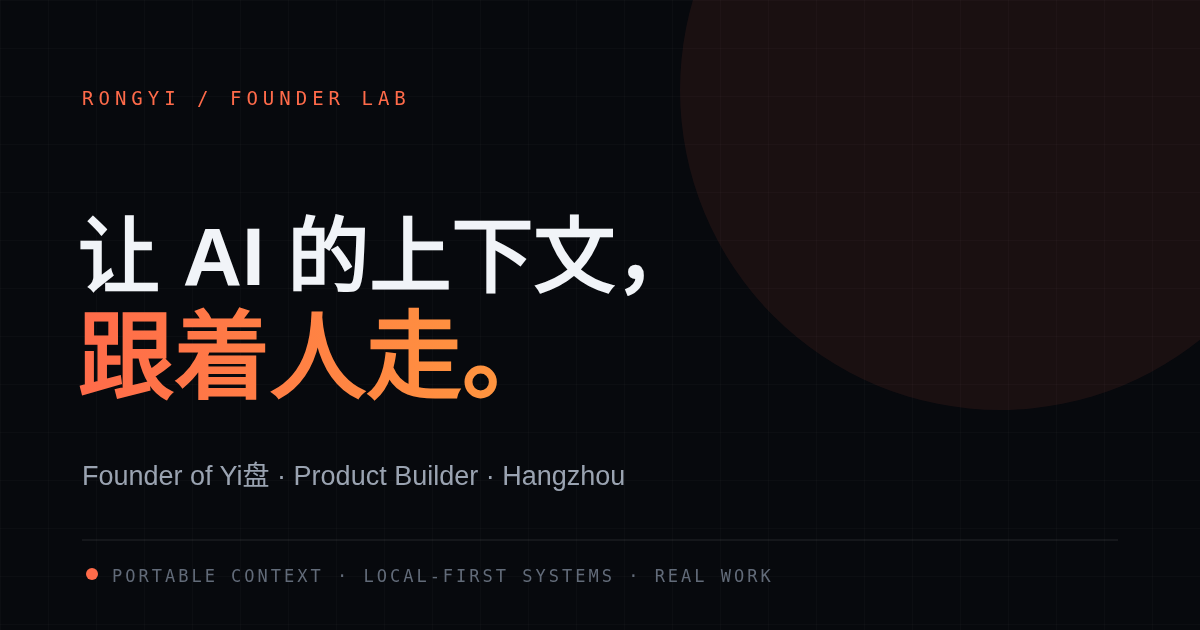
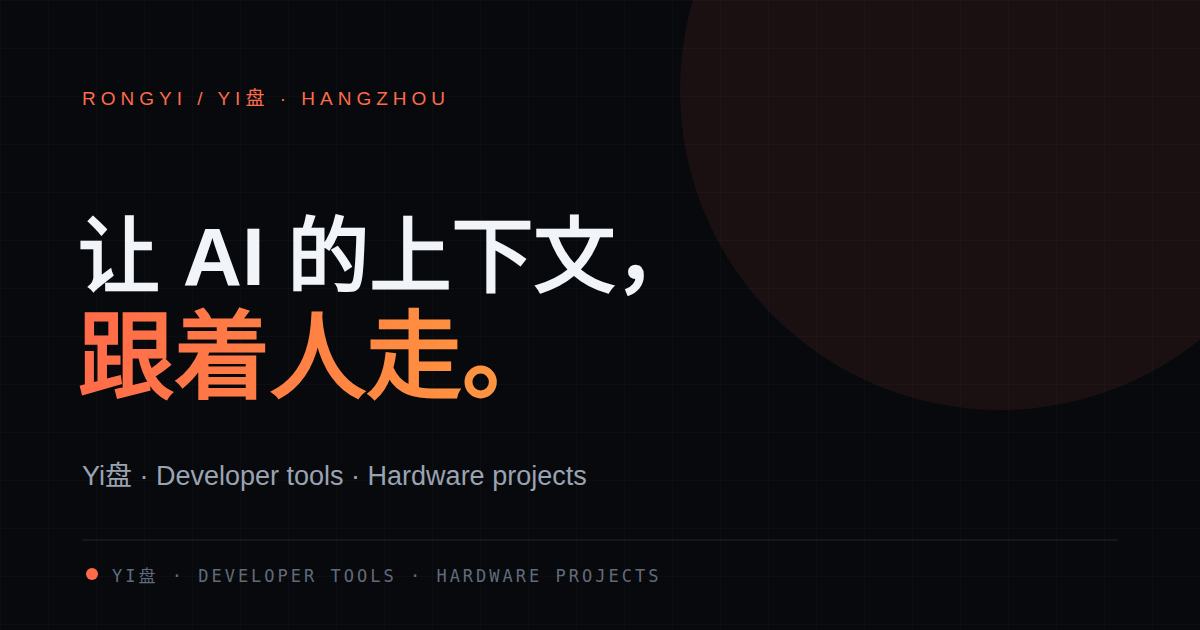
refactor: make homepage copy more direct

diff --git a/src/styles/global.css b/src/styles/global.css
@@ -14,22 +14,22 @@ body::before{content:"";position:fixed;inset:0;z-index:-3;pointer-events:none;ba
 .site-header{position:fixed;z-index:100;top:18px;left:50%;transform:translateX(-50%);width:min(calc(100% - 40px),var(--max));min-height:56px;display:grid;grid-template-columns:1fr auto 1fr;align-items:center;padding:8px 10px 8px 12px;border:1px solid transparent;border-radius:14px;transition:background .25s,border-color .25s,backdrop-filter .25s,top .25s}.site-header.is-scrolled{top:10px;background:rgba(7,9,13,.78);border-color:var(--line);backdrop-filter:blur(18px)}.mobile-nav{display:none}
 .wordmark{display:inline-flex;align-items:center;gap:10px;width:max-content;text-decoration:none}.wordmark>span{display:grid;place-items:center;width:34px;height:34px;border:1px solid rgba(255,107,74,.45);border-radius:9px;color:var(--accent);font-size:18px;font-weight:850}.wordmark b{font-size:13px;letter-spacing:.15em}.wordmark small{color:var(--dim);font-size:10px;letter-spacing:.12em}nav{display:flex;align-items:center;gap:6px}nav a,.header-link{padding:9px 13px;border-radius:9px;color:var(--muted);font-size:12px;font-weight:650;letter-spacing:.08em;text-decoration:none;transition:color .2s,background .2s}nav a:hover,nav a:focus-visible,.header-link:hover,.header-link:focus-visible{color:var(--text);background:rgba(255,255,255,.06);outline:none}.header-link{justify-self:end;color:var(--text)}.header-link span{color:var(--accent)}
 .hero{position:relative;width:min(calc(100% - 48px),var(--max));min-height:100dvh;margin:0 auto;padding:150px 0 92px;display:grid;grid-template-columns:minmax(0,.88fr) minmax(480px,1.12fr);align-items:center;gap:clamp(40px,6vw,100px)}.hero-copy{position:relative;z-index:2}.eyebrow{margin:0 0 22px;color:var(--muted);font-size:11px;font-weight:650;letter-spacing:.17em;line-height:1.5}.pulse{display:inline-block;width:7px;height:7px;margin-right:8px;border-radius:50%;background:var(--accent);box-shadow:0 0 0 5px rgba(255,107,74,.1),0 0 18px var(--accent);animation:pulse 2.2s ease-in-out infinite}
-.hero h1{margin:0;width:max-content;max-width:100%;font-size:clamp(46px,4.65vw,67px);font-weight:720;letter-spacing:-.045em;line-height:1.02}.headline-line{display:block;white-space:nowrap}.hero h1 .is-accent{color:var(--accent)}.hero h1 em,.closing h2 em{display:inline-block;padding:0 .08em .07em 0;color:var(--accent);font-style:normal}.hero-en{margin:22px 0 0;color:var(--dim);font-size:clamp(15px,1.5vw,20px);letter-spacing:-.015em}.hero-intro{max-width:570px;margin:28px 0 0;color:#bdc4ce;font-size:16px;line-height:1.8}.hero-actions{display:flex;flex-wrap:wrap;gap:12px;margin-top:34px}
+.hero h1{margin:0;width:max-content;max-width:100%;font-size:clamp(46px,4.65vw,67px);font-weight:720;letter-spacing:-.045em;line-height:1.02}.headline-line{display:block;white-space:nowrap}.hero h1 .is-accent{color:var(--accent)}.hero h1 em,.closing h2 em{display:inline-block;padding:0 .08em .07em 0;color:var(--accent);font-style:normal}.hero-intro{max-width:600px;margin:28px 0 0;color:#bdc4ce;font-size:16px;line-height:1.8}.hero-actions{display:flex;flex-wrap:wrap;gap:12px;margin-top:34px}
 .button{min-height:48px;display:inline-flex;align-items:center;justify-content:center;gap:18px;padding:0 22px;border:1px solid var(--line-strong);border-radius:12px;font-size:14px;font-weight:680;text-decoration:none;white-space:nowrap;transition:transform .18s,background .18s,border-color .18s,box-shadow .18s}.button:active{transform:translateY(1px) scale(.985)}.button.primary{border-color:rgba(255,154,61,.5);color:#17100d;background:linear-gradient(100deg,var(--accent),var(--accent-2));box-shadow:0 16px 40px rgba(255,107,74,.16)}.button.primary:hover,.button.primary:focus-visible{transform:translateY(-2px);box-shadow:0 20px 50px rgba(255,107,74,.25)}.button.secondary{color:#dfe4eb;background:rgba(255,255,255,.035)}.button.secondary:hover,.button.secondary:focus-visible{border-color:rgba(255,255,255,.3);background:rgba(255,255,255,.07)}.button span{font-size:16px}
 .context-machine{position:relative;min-height:470px;margin:0;border:1px solid var(--line-strong);border-radius:var(--radius);background:linear-gradient(145deg,rgba(17,21,29,.9),rgba(7,9,13,.7));box-shadow:0 45px 100px rgba(0,0,0,.35),inset 0 1px rgba(255,255,255,.04);overflow:hidden}.context-machine::before{content:"";position:absolute;inset:0;pointer-events:none;background:linear-gradient(rgba(255,255,255,.026) 1px,transparent 1px),linear-gradient(90deg,rgba(255,255,255,.026) 1px,transparent 1px);background-size:28px 28px;mask-image:linear-gradient(to bottom,#000,transparent 85%)}.context-machine::after{content:"";position:absolute;inset:-40%;background:conic-gradient(from 200deg,transparent 0 30%,rgba(255,107,74,.07),transparent 42%);animation:scan 10s linear infinite}
 .machine-topline,.machine-footer{position:relative;z-index:3;min-height:44px;display:flex;align-items:center;justify-content:space-between;padding:0 18px;border-bottom:1px solid var(--line);color:var(--dim);font-size:9px;font-weight:650;letter-spacing:.16em}.online{color:#c3cad4}.online i{display:inline-block;width:6px;height:6px;margin-right:7px;border-radius:50%;background:var(--accent);box-shadow:0 0 12px var(--accent)}.machine-footer{position:absolute;inset:auto 0 0;border-top:1px solid var(--line);border-bottom:0}.machine-grid{position:relative;z-index:2;min-height:380px;display:grid;grid-template-columns:1fr 74px 1.1fr 74px 1fr;align-items:center;padding:30px 22px 65px}.source-stack,.agent-stack{display:grid;gap:10px}.source,.agent-stack>div{min-height:62px;padding:12px;border:1px solid var(--line);border-radius:10px;background:rgba(6,8,12,.7)}.source span{float:right;color:var(--dim);font-family:ui-monospace,monospace;font-size:9px}.source b,.agent-stack b{display:block;color:#dbe1e9;font-size:10px;letter-spacing:.08em}.source small,.agent-stack small{display:block;margin-top:8px;color:var(--dim);font-size:9px}.agent-stack>div{min-height:54px;position:relative;padding-left:30px}.agent-stack i{position:absolute;top:15px;left:12px;width:7px;height:7px;border:1px solid rgba(70,216,156,.65);border-radius:50%;background:rgba(70,216,156,.18);box-shadow:0 0 10px rgba(70,216,156,.3)}.agent-stack small{color:#6ca98f}
 .route{position:relative;height:1px;background:linear-gradient(90deg,rgba(255,107,74,.15),var(--accent),rgba(255,107,74,.15))}.route::before,.route::after{content:"";position:absolute;top:-3px;width:7px;height:7px;border-top:1px solid var(--accent);border-right:1px solid var(--accent);transform:rotate(45deg)}.route::before{left:38%}.route::after{right:5%}.packet{position:absolute;top:-3px;left:0;width:7px;height:7px;border-radius:50%;background:#fff;box-shadow:0 0 14px 3px var(--accent);animation:packet 2.8s linear infinite}.packet-b{animation-delay:-1.4s}.packet-c{animation-duration:2s;animation-delay:-.5s}
 .yipan-core{position:relative;aspect-ratio:1;width:min(100%,170px);margin:auto;display:grid;place-content:center;text-align:center;border:1px solid rgba(255,107,74,.2);border-radius:50%;background:radial-gradient(circle,rgba(255,107,74,.16),rgba(255,107,74,.03) 48%,transparent 49%);box-shadow:0 0 70px rgba(255,107,74,.11)}.core-orbit{position:absolute;inset:10%;border:1px dashed rgba(255,154,61,.33);border-radius:50%;animation:spin 13s linear infinite}.core-orbit::after{content:"";position:absolute;top:13%;left:5%;width:7px;height:7px;border-radius:50%;background:var(--accent-2);box-shadow:0 0 14px var(--accent-2)}.orbit-b{inset:-3%;border-color:rgba(255,255,255,.1);animation-direction:reverse;animation-duration:19s}.orbit-b::after{top:auto;left:auto;right:5%;bottom:20%;width:5px;height:5px;background:#fff;box-shadow:0 0 12px #fff}.core-mark{display:flex;align-items:baseline;justify-content:center;gap:.06em;font-size:30px;font-weight:780;letter-spacing:0}.core-mark .brand-latin{letter-spacing:-.035em}.core-mark .brand-cjk{color:var(--accent);font-family:"PingFang SC","Microsoft YaHei",system-ui,sans-serif;font-size:.92em;letter-spacing:0}.yipan-core small{margin-top:7px;color:var(--dim);font-size:7px;letter-spacing:.15em;line-height:1.5}.scroll-note{position:absolute;left:0;bottom:27px;display:flex;align-items:center;gap:10px;color:var(--dim);font-size:9px;letter-spacing:.17em}.scroll-note span{position:relative;width:32px;height:1px;background:var(--line-strong);overflow:hidden}.scroll-note span::after{content:"";position:absolute;width:12px;height:1px;background:var(--accent);animation:scrollLine 2s ease-in-out infinite}
-.section-shell{width:min(calc(100% - 48px),var(--max));margin:0 auto}.section-index{color:var(--accent);font-family:ui-monospace,"SFMono-Regular",monospace;font-size:10px;letter-spacing:.14em}.statement-line{display:block;white-space:nowrap}.manifesto{position:relative;min-height:620px;padding:130px 0;display:grid;grid-template-columns:.5fr 1.45fr .75fr;gap:60px;align-items:start;border-top:1px solid var(--line)}.manifesto h2,.section-heading h2,.proof h2,.closing h2{margin:0;font-size:clamp(38px,5vw,70px);font-weight:650;letter-spacing:-.055em;line-height:1.08}.manifesto h2 .statement-line:last-child>span,.proof h2 .is-accent{color:var(--accent)}.manifesto>p{margin:39px 0 0;color:var(--muted);font-size:15px;line-height:1.85}.skill-strip{position:absolute;inset:auto 0 70px;display:grid;grid-template-columns:repeat(4,1fr);border-top:1px solid var(--line);border-bottom:1px solid var(--line)}.skill-strip span{padding:18px 12px;border-right:1px solid var(--line);color:var(--dim);font-size:10px;letter-spacing:.12em;text-align:center}.skill-strip span:last-child{border:0}
-.work,.principles,.build-log{padding:110px 0;border-top:1px solid var(--line)}.section-heading{display:grid;grid-template-columns:1fr minmax(260px,430px);gap:60px;align-items:end;margin-bottom:60px}.section-heading .section-index{margin-bottom:18px}.section-heading h2{font-size:clamp(40px,4.5vw,64px)}.section-heading>p{margin:0;color:var(--muted);font-size:14px;line-height:1.8}
+.section-shell{width:min(calc(100% - 48px),var(--max));margin:0 auto}.section-index{color:var(--accent);font-family:ui-monospace,"SFMono-Regular",monospace;font-size:10px;letter-spacing:.14em}.statement-line{display:block;white-space:nowrap}.section-heading h2,.proof h2,.closing h2{margin:0;font-size:clamp(38px,5vw,70px);font-weight:650;letter-spacing:-.055em;line-height:1.08}.proof h2 .is-accent{color:var(--accent)}
+.work,.build-log{padding:110px 0;border-top:1px solid var(--line)}.section-heading{display:grid;grid-template-columns:1fr minmax(260px,430px);gap:60px;align-items:end;margin-bottom:60px}.section-heading .section-index{margin-bottom:18px}.section-heading h2{font-size:clamp(40px,4.5vw,64px)}.section-heading>p{margin:0;color:var(--muted);font-size:14px;line-height:1.8}
 .project-featured{display:grid;grid-template-columns:.9fr 1.1fr;gap:40px;min-height:540px;padding:clamp(28px,4vw,58px);border:1px solid rgba(255,107,74,.26);border-radius:var(--radius);background:linear-gradient(125deg,rgba(255,107,74,.085),rgba(255,255,255,.018) 48%,rgba(255,154,61,.04));box-shadow:inset 0 1px rgba(255,255,255,.04)}.project-main{align-self:center}.project-main h3{margin:0;font-size:clamp(64px,8vw,110px);font-weight:760;letter-spacing:0;line-height:1}.project-title{display:flex;align-items:baseline;gap:.08em;width:max-content}.project-title-latin{letter-spacing:-.045em}.project-title-cjk{color:var(--accent);font-family:"PingFang SC","Microsoft YaHei",system-ui,sans-serif;font-size:.92em;font-weight:730;letter-spacing:0}.project-summary{max-width:590px;margin:22px 0;color:#c3cad4;font-size:16px;line-height:1.8}.tags{display:flex;flex-wrap:wrap;gap:7px}.tags span{padding:6px 9px;border:1px solid var(--line);border-radius:8px;color:var(--muted);background:rgba(255,255,255,.025);font-size:10px;letter-spacing:.04em}.project-links{display:flex;flex-wrap:wrap;align-items:center;gap:15px;margin-top:30px}.status,.live-signal{display:inline-flex;align-items:center;gap:8px;color:var(--muted);font-size:11px;text-decoration:none}.status i,.live-signal i{width:6px;height:6px;border-radius:50%;background:var(--dim)}.status.active i{background:var(--accent);box-shadow:0 0 10px var(--accent)}.caveat{display:block;margin:18px 0 0;color:var(--dim);font-size:12px;line-height:1.65}
 .yipan-blueprint{align-self:center;min-height:410px;margin:0;position:relative;display:grid;place-content:center;padding:50px 24px;border:1px dashed rgba(255,255,255,.15);border-radius:12px;background:linear-gradient(rgba(255,255,255,.018) 1px,transparent 1px),linear-gradient(90deg,rgba(255,255,255,.018) 1px,transparent 1px),rgba(4,6,9,.48);background-size:22px 22px}.blueprint-label{position:absolute;top:15px;left:16px;color:var(--dim);font-family:ui-monospace,monospace;font-size:9px;letter-spacing:.1em}.drive-body{width:min(390px,90%);height:142px;margin:auto;display:grid;grid-template-columns:70px 1fr;filter:drop-shadow(0 30px 30px rgba(0,0,0,.4));transform:perspective(700px) rotateX(8deg) rotateY(-7deg)}.drive-port{display:flex;align-items:center;justify-content:center;gap:5px;border:1px solid rgba(255,154,61,.35);border-right:0;border-radius:11px 0 0 11px;background:#161a21}.drive-port i{width:7px;height:54px;border:1px solid #4e5663;background:#232934}.drive-face{position:relative;padding:30px 34px;border:1px solid rgba(255,154,61,.4);border-radius:0 13px 13px 0;background:linear-gradient(145deg,#20252d,#0d1117);overflow:hidden}.drive-face::after{content:"";position:absolute;inset:0;background:linear-gradient(115deg,transparent 40%,rgba(255,255,255,.07) 50%,transparent 60%);transform:translateX(-100%);animation:shine 4s ease-in-out infinite}.drive-face b{display:block;font-size:35px;letter-spacing:0}.drive-brand{display:flex!important;align-items:baseline;gap:.08em;width:max-content}.drive-brand .brand-latin{letter-spacing:-.035em}.drive-brand .brand-cjk{color:var(--accent);font-family:"PingFang SC","Microsoft YaHei",system-ui,sans-serif;font-size:.92em;letter-spacing:0}.drive-face small{color:var(--dim);font-size:7px;letter-spacing:.16em}.drive-lines{position:absolute;right:20px;bottom:20px;display:flex;gap:5px}.drive-lines i{width:24px;height:3px;background:var(--accent);opacity:.25}.drive-lines i:nth-child(2){opacity:.55}.drive-lines i:nth-child(3){opacity:1;box-shadow:0 0 10px var(--accent)}.capability-row{display:grid;grid-template-columns:repeat(4,1fr);margin-top:42px;border:1px solid var(--line);border-radius:9px;overflow:hidden}.capability-row span{padding:10px;border-right:1px solid var(--line);color:var(--dim);font-size:8px;text-align:center;letter-spacing:.12em}.capability-row span:last-child{border:0}.proof-note{position:absolute;right:14px;bottom:14px;color:var(--dim);font-size:9px;letter-spacing:.08em}.proof-note i{display:inline-block;width:5px;height:5px;margin-right:5px;border-radius:50%;background:var(--accent)}
 .project-row{position:relative;min-height:240px;display:grid;grid-template-columns:80px 1.25fr .75fr 42px;gap:30px;align-items:center;padding:34px 20px 34px 0;border-bottom:1px solid var(--line);transition:background .25s,padding .25s}.project-row:hover{padding-left:18px;background:linear-gradient(90deg,rgba(255,107,74,.055),transparent 70%)}.project-row:hover .project-arrow{color:var(--accent);transform:translate(2px,-2px)}.project-number{align-self:start;padding-top:6px;color:var(--accent);font-family:ui-monospace,monospace;font-size:11px}.project-copy .eyebrow{margin-bottom:12px}.project-copy h3{margin:0;font-size:clamp(28px,3vw,42px);letter-spacing:-.045em}.project-copy>p{max-width:670px;margin:15px 0 0;color:var(--muted);font-size:14px;line-height:1.75}.project-meta{display:grid;gap:20px;justify-items:start}.live-signal{color:#aab3bf}.live-signal.pass i,.live-signal.release i{background:var(--ok);box-shadow:0 0 9px rgba(70,216,156,.5)}.live-signal.release i{background:var(--accent);box-shadow:0 0 9px rgba(255,107,74,.6)}.live-signal.failure{color:#ffaaaa}.live-signal.failure i{background:var(--danger);box-shadow:0 0 9px rgba(255,116,116,.45)}.live-signal.stale i{background:var(--accent-2)}.project-arrow{display:inline-flex;align-items:center;justify-content:center;gap:7px;min-width:44px;min-height:44px;padding:0 10px;border:1px solid var(--line);border-radius:10px;color:var(--muted);text-decoration:none;transition:color .2s,transform .2s,border-color .2s}.project-arrow:focus-visible{color:var(--accent);border-color:var(--accent)}.project-arrow-label{font-size:11px}.data-note{margin:24px 0 0;color:var(--dim);font-size:11px;line-height:1.6;letter-spacing:.04em}
-.principle-list{border-top:1px solid var(--line)}.principle{display:grid;grid-template-columns:70px 1fr minmax(280px,.8fr);gap:30px;align-items:center;min-height:130px;border-bottom:1px solid var(--line)}.principle>span{color:var(--accent);font-family:ui-monospace,monospace;font-size:11px}.principle h3{margin:0;font-size:clamp(20px,2.2vw,30px);font-weight:570;letter-spacing:-.025em}.principle p{margin:0;color:var(--muted);font-size:13px;line-height:1.7}.proof{min-height:650px;padding:120px 0;display:grid;grid-template-columns:.85fr 1.15fr;gap:clamp(60px,9vw,140px);align-items:center;border-top:1px solid var(--line)}.proof h2{margin-top:22px;width:max-content;max-width:100%;font-size:clamp(38px,3.45vw,50px);line-height:1.1;letter-spacing:-.04em}.proof-copy>p:not(.section-index){max-width:480px;margin:26px 0;color:var(--muted);line-height:1.8}.text-link{min-height:44px;display:inline-flex;align-items:center;padding-bottom:5px;border-bottom:1px solid var(--accent);color:#e7ebf1;font-size:13px;text-decoration:none}.signal-panel{border:1px solid var(--line-strong);border-radius:var(--radius);background:rgba(11,14,20,.75);overflow:hidden;box-shadow:0 30px 90px rgba(0,0,0,.28)}.signal-header{min-height:47px;display:flex;align-items:center;justify-content:space-between;padding:0 17px;border-bottom:1px solid var(--line);color:var(--dim);font-size:9px;letter-spacing:.12em}.signal-header small{font-size:10px}.signal-panel>a{min-height:70px;display:grid;grid-template-columns:12px 1fr auto 20px;gap:12px;align-items:center;padding:0 17px;border-bottom:1px solid var(--line);text-decoration:none;transition:background .2s}.signal-panel>a:last-child{border:0}.signal-panel>a:hover{background:rgba(255,255,255,.035)}.signal-panel>a i{width:7px;height:7px;border:1px solid var(--accent);border-radius:50%}.signal-panel>a i.ok{border:0;background:var(--ok);box-shadow:0 0 10px rgba(70,216,156,.45)}.signal-panel>a i.failure{border:0;background:var(--danger);box-shadow:0 0 10px rgba(255,116,116,.4)}.signal-panel>a.failure span{color:#ffaaaa}.signal-panel>a.stale i{border-color:var(--accent-2)}.signal-panel b{font-size:13px;font-weight:620}.signal-panel a span{color:var(--muted);font-size:11px}.signal-panel em{color:var(--dim);font-style:normal}
-.log-grid{display:grid;grid-template-columns:repeat(2,1fr);border-top:1px solid var(--line);border-left:1px solid var(--line)}.log-entry{min-height:270px;display:flex;flex-direction:column;padding:30px;border-right:1px solid var(--line);border-bottom:1px solid var(--line);text-decoration:none;transition:background .25s}.log-entry:hover{background:linear-gradient(145deg,rgba(255,107,74,.07),rgba(255,255,255,.015))}.log-entry>div{display:flex;justify-content:space-between;color:var(--dim);font-size:10px;letter-spacing:.1em}.log-entry>div span{color:var(--accent)}.log-entry h3{margin:42px 0 12px;font-size:25px;letter-spacing:-.035em}.log-entry p{max-width:470px;margin:0;color:var(--muted);font-size:13px;line-height:1.7}.log-entry>i{margin-top:auto;color:var(--dim);font-size:10px;font-style:normal;letter-spacing:.12em}.closing{min-height:720px;display:grid;place-content:center;justify-items:center;padding:120px 20px;border-top:1px solid var(--line);text-align:center}.closing .eyebrow{color:var(--accent)}.closing h2{font-size:clamp(48px,7vw,94px)}.closing>p:not(.eyebrow){margin:30px 0;color:var(--muted)}.closing .button{margin-top:8px}footer{width:min(calc(100% - 48px),var(--max));min-height:130px;margin:0 auto;display:grid;grid-template-columns:1fr auto 1fr;gap:30px;align-items:center;border-top:1px solid var(--line);color:var(--dim);font-size:10px}footer div{display:flex;flex-direction:column;gap:7px}footer b{color:var(--text);font-size:13px;letter-spacing:.12em}footer p{text-align:center}footer>span{justify-self:end}
+.proof{min-height:650px;padding:120px 0;display:grid;grid-template-columns:.85fr 1.15fr;gap:clamp(60px,9vw,140px);align-items:center;border-top:1px solid var(--line)}.proof h2{margin-top:22px;width:max-content;max-width:100%;font-size:clamp(38px,3.45vw,50px);line-height:1.1;letter-spacing:-.04em}.proof-copy>p:not(.section-index){max-width:480px;margin:26px 0;color:var(--muted);line-height:1.8}.text-link{min-height:44px;display:inline-flex;align-items:center;padding-bottom:5px;border-bottom:1px solid var(--accent);color:#e7ebf1;font-size:13px;text-decoration:none}.signal-panel{border:1px solid var(--line-strong);border-radius:var(--radius);background:rgba(11,14,20,.75);overflow:hidden;box-shadow:0 30px 90px rgba(0,0,0,.28)}.signal-header{min-height:47px;display:flex;align-items:center;justify-content:space-between;padding:0 17px;border-bottom:1px solid var(--line);color:var(--dim);font-size:9px;letter-spacing:.12em}.signal-header small{font-size:10px}.signal-panel>a{min-height:70px;display:grid;grid-template-columns:12px 1fr auto 20px;gap:12px;align-items:center;padding:0 17px;border-bottom:1px solid var(--line);text-decoration:none;transition:background .2s}.signal-panel>a:last-child{border:0}.signal-panel>a:hover{background:rgba(255,255,255,.035)}.signal-panel>a i{width:7px;height:7px;border:1px solid var(--accent);border-radius:50%}.signal-panel>a i.ok{border:0;background:var(--ok);box-shadow:0 0 10px rgba(70,216,156,.45)}.signal-panel>a i.failure{border:0;background:var(--danger);box-shadow:0 0 10px rgba(255,116,116,.4)}.signal-panel>a.failure span{color:#ffaaaa}.signal-panel>a.stale i{border-color:var(--accent-2)}.signal-panel b{font-size:13px;font-weight:620}.signal-panel a span{color:var(--muted);font-size:11px}.signal-panel em{color:var(--dim);font-style:normal}
+.log-grid{display:grid;grid-template-columns:repeat(2,1fr);border-top:1px solid var(--line);border-left:1px solid var(--line)}.log-entry{min-height:270px;display:flex;flex-direction:column;padding:30px;border-right:1px solid var(--line);border-bottom:1px solid var(--line);text-decoration:none;transition:background .25s}.log-entry:hover{background:linear-gradient(145deg,rgba(255,107,74,.07),rgba(255,255,255,.015))}.log-entry>div{display:flex;justify-content:space-between;color:var(--dim);font-size:10px;letter-spacing:.1em}.log-entry>div span{color:var(--accent)}.log-entry h3{margin:42px 0 12px;font-size:25px;letter-spacing:-.035em}.log-entry p{max-width:470px;margin:0;color:var(--muted);font-size:13px;line-height:1.7}.log-entry>i{margin-top:auto;color:var(--dim);font-size:10px;font-style:normal;letter-spacing:.12em}.closing{min-height:580px;display:grid;place-content:center;justify-items:center;padding:100px 20px;border-top:1px solid var(--line);text-align:center}.closing .eyebrow{color:var(--accent)}.closing h2{font-size:clamp(48px,7vw,94px)}.closing>p:not(.eyebrow){margin:30px 0;color:var(--muted)}.closing .button{margin-top:8px}footer{width:min(calc(100% - 48px),var(--max));min-height:130px;margin:0 auto;display:grid;grid-template-columns:1fr auto 1fr;gap:30px;align-items:center;border-top:1px solid var(--line);color:var(--dim);font-size:10px}footer div{display:flex;flex-direction:column;gap:7px}footer b{color:var(--text);font-size:13px;letter-spacing:.12em}footer p{text-align:center}footer>span{justify-self:end}
 .reveal{opacity:1;transform:none}.reveal.enter{animation:revealIn .75s cubic-bezier(.2,.8,.2,1) both}
 @keyframes revealIn{from{opacity:0;transform:translateY(18px)}to{opacity:1;transform:none}}@keyframes pulse{50%{opacity:.55;box-shadow:0 0 0 8px rgba(255,107,74,.03),0 0 8px var(--accent)}}@keyframes scan{to{transform:rotate(360deg)}}@keyframes packet{from{left:0}to{left:calc(100% - 7px)}}@keyframes spin{to{transform:rotate(360deg)}}@keyframes scrollLine{0%{transform:translateX(-100%)}100%{transform:translateX(270%)}}@keyframes shine{0%,35%{transform:translateX(-100%)}65%,100%{transform:translateX(100%)}}
-@media(max-width:1200px){.hero{grid-template-columns:1fr;min-height:auto;padding:130px 0 92px;align-content:center}.hero-copy{max-width:800px}.hero h1{font-size:clamp(52px,6.7vw,67px)}.context-machine{min-height:430px}.scroll-note{display:none}.manifesto{grid-template-columns:.35fr 1.3fr .65fr;gap:32px}.project-featured{grid-template-columns:1fr}.project-main{order:1}.yipan-blueprint{min-height:360px}.project-row{grid-template-columns:55px 1fr .65fr auto;gap:20px}.proof{grid-template-columns:1fr;gap:55px}.signal-panel{max-width:720px}}
-@media(max-width:820px){.section-heading{grid-template-columns:1fr;gap:24px;margin-bottom:42px}.manifesto{grid-template-columns:minmax(0,1fr);min-height:680px;padding:95px 0;gap:25px}.manifesto>p{margin:0}.manifesto h2{font-size:clamp(36px,6.2vw,48px)}.skill-strip{bottom:40px}.principle{grid-template-columns:55px 1fr;gap:20px;padding:26px 0}.principle p{grid-column:2}.proof{min-height:auto;padding:95px 0}.project-row{grid-template-columns:44px 1fr auto}.project-copy,.project-meta{grid-column:2}.project-arrow{grid-column:3;grid-row:1/span 2}.project-number{grid-row:1/span 2}}
-@media(max-width:760px){.ambient{overflow:hidden}main section[id]{scroll-margin-top:126px}.site-header{top:10px;width:calc(100% - 24px);grid-template-columns:1fr auto;background:rgba(7,9,13,.88);border-color:var(--line);backdrop-filter:blur(16px)}.site-header .wordmark{min-height:44px}.wordmark small,.site-header nav{display:none}.header-link{min-height:44px;display:inline-flex;align-items:center;padding-right:7px}.mobile-nav{position:fixed;z-index:99;top:76px;left:50%;transform:translateX(-50%);width:max-content;max-width:calc(100% - 32px);min-height:50px;display:flex;gap:2px;padding:3px;border:1px solid var(--line);border-radius:11px;background:rgba(7,9,13,.88);backdrop-filter:blur(16px)}.mobile-nav a{min-width:58px;min-height:44px;display:grid;place-items:center;padding:0 12px;border-radius:8px;color:var(--muted);font-size:12px;text-decoration:none}.hero,.section-shell,footer{width:calc(100% - 32px)}.hero{min-height:auto;padding:136px 0 72px;gap:42px}.hero h1{font-size:clamp(38px,10.6vw,44px);line-height:1.04;letter-spacing:-.035em}.hero-en{margin-top:17px}.hero-intro{margin-top:23px;font-size:15px;line-height:1.7}.hero-actions{display:grid;grid-template-columns:1fr 1fr;margin-top:28px}.button{min-width:0;gap:10px;padding:0 14px}.context-machine{min-height:330px}.machine-topline,.machine-footer{min-height:40px;font-size:8px;padding-inline:14px}.machine-grid{min-height:250px;grid-template-columns:1fr 26px 1fr;grid-template-rows:auto 38px auto;padding:18px 12px 48px}.source-stack,.agent-stack{gap:6px}.source,.agent-stack>div{min-height:42px;padding:8px}.source small,.agent-stack small{margin-top:4px}.agent-stack>div{padding-left:25px}.agent-stack i{top:11px;left:9px}.source-stack{grid-column:1;grid-row:1/span 3}.route-left{grid-column:2;grid-row:2}.yipan-core{grid-column:3;grid-row:1;width:86px}.core-mark{font-size:23px}.route-right{grid-column:3;grid-row:2;width:1px;height:32px;justify-self:center;background:linear-gradient(var(--accent),rgba(255,107,74,.15))}.route-right::before,.route-right::after,.route-left::before,.route-left::after,.route .packet{display:none}.agent-stack{grid-column:3;grid-row:3}.machine-footer span:nth-child(2){display:none}.context-machine::after,.orbit-b{animation:none}.manifesto{min-height:650px}.manifesto h2{font-size:clamp(25px,7.7vw,30px)}.skill-strip{grid-template-columns:1fr 1fr}.skill-strip span:nth-child(2){border-right:0}.skill-strip span:nth-child(-n+2){border-bottom:1px solid var(--line)}.work,.principles,.build-log{padding:85px 0}.section-heading h2{font-size:clamp(38px,11vw,44px)}.project-featured{min-height:auto;padding:27px 20px}.project-main h3{font-size:70px}.proof h2{font-size:clamp(29px,8.15vw,35px);letter-spacing:-.035em}.yipan-blueprint{min-height:320px;padding-inline:12px}.drive-body{width:92%;height:110px;grid-template-columns:52px 1fr}.drive-face{padding:23px 20px}.drive-face::after{animation:none}.drive-face b{font-size:27px}.capability-row{margin-top:30px}.proof-note{max-width:78%;text-align:right}.project-row{padding:30px 0}.project-row:hover{padding-left:0}.project-meta{gap:12px}.live-signal{min-height:44px}.data-note a{min-height:44px;display:inline-flex;align-items:center}.project-arrow-label{display:none}.principle{grid-template-columns:35px 1fr;gap:15px;padding:24px 0}.principle p{grid-column:2}.signal-header small{display:none}.signal-panel>a{grid-template-columns:10px 1fr 18px;padding-block:12px}.signal-panel>a span{grid-column:2;padding-bottom:15px}.signal-panel>a em{grid-column:3;grid-row:1/span 2}.log-grid{grid-template-columns:1fr}.log-entry{min-height:245px}.closing{min-height:600px;padding-inline:0}.closing h2{font-size:clamp(28px,9.2vw,40px)}.closing>p:not(.eyebrow){max-width:30ch;line-height:1.7}footer{min-height:190px;padding:30px 0;grid-template-columns:1fr;gap:12px;text-align:center;font-size:11px}footer div{align-items:center}footer p{margin:0}footer>span{justify-self:center}}
+@media(max-width:1200px){.hero{grid-template-columns:1fr;min-height:auto;padding:130px 0 92px;align-content:center}.hero-copy{max-width:800px}.hero h1{font-size:clamp(52px,6.7vw,67px)}.context-machine{min-height:430px}.scroll-note{display:none}.project-featured{grid-template-columns:1fr}.project-main{order:1}.yipan-blueprint{min-height:360px}.project-row{grid-template-columns:55px 1fr .65fr auto;gap:20px}.proof{grid-template-columns:1fr;gap:55px}.signal-panel{max-width:720px}}
+@media(max-width:820px){.section-heading{grid-template-columns:1fr;gap:24px;margin-bottom:42px}.proof{min-height:auto;padding:95px 0}.project-row{grid-template-columns:44px 1fr auto}.project-copy,.project-meta{grid-column:2}.project-arrow{grid-column:3;grid-row:1/span 2}.project-number{grid-row:1/span 2}}
+@media(max-width:760px){.ambient{overflow:hidden}main section[id]{scroll-margin-top:126px}.site-header{top:10px;width:calc(100% - 24px);grid-template-columns:1fr auto;background:rgba(7,9,13,.88);border-color:var(--line);backdrop-filter:blur(16px)}.site-header .wordmark{min-height:44px}.wordmark small,.site-header nav{display:none}.header-link{min-height:44px;display:inline-flex;align-items:center;padding-right:7px}.mobile-nav{position:fixed;z-index:99;top:76px;left:50%;transform:translateX(-50%);width:max-content;max-width:calc(100% - 32px);min-height:50px;display:flex;gap:2px;padding:3px;border:1px solid var(--line);border-radius:11px;background:rgba(7,9,13,.88);backdrop-filter:blur(16px)}.mobile-nav a{min-width:58px;min-height:44px;display:grid;place-items:center;padding:0 12px;border-radius:8px;color:var(--muted);font-size:12px;text-decoration:none}.hero,.section-shell,footer{width:calc(100% - 32px)}.hero{min-height:auto;padding:136px 0 72px;gap:42px}.hero h1{font-size:clamp(38px,10.6vw,44px);line-height:1.04;letter-spacing:-.035em}.hero-intro{margin-top:23px;font-size:15px;line-height:1.7}.hero-actions{display:grid;grid-template-columns:1fr 1fr;margin-top:28px}.button{min-width:0;gap:10px;padding:0 14px}.context-machine{min-height:330px}.machine-topline,.machine-footer{min-height:40px;font-size:8px;padding-inline:14px}.machine-grid{min-height:250px;grid-template-columns:1fr 26px 1fr;grid-template-rows:auto 38px auto;padding:18px 12px 48px}.source-stack,.agent-stack{gap:6px}.source,.agent-stack>div{min-height:42px;padding:8px}.source small,.agent-stack small{margin-top:4px}.agent-stack>div{padding-left:25px}.agent-stack i{top:11px;left:9px}.source-stack{grid-column:1;grid-row:1/span 3}.route-left{grid-column:2;grid-row:2}.yipan-core{grid-column:3;grid-row:1;width:86px}.core-mark{font-size:23px}.route-right{grid-column:3;grid-row:2;width:1px;height:32px;justify-self:center;background:linear-gradient(var(--accent),rgba(255,107,74,.15))}.route-right::before,.route-right::after,.route-left::before,.route-left::after,.route .packet{display:none}.agent-stack{grid-column:3;grid-row:3}.machine-footer span:nth-child(2){display:none}.context-machine::after,.orbit-b{animation:none}.work,.build-log{padding:85px 0}.section-heading h2{font-size:clamp(38px,11vw,44px)}.project-featured{min-height:auto;padding:27px 20px}.project-main h3{font-size:70px}.proof h2{font-size:clamp(29px,8.15vw,35px);letter-spacing:-.035em}.yipan-blueprint{min-height:320px;padding-inline:12px}.drive-body{width:92%;height:110px;grid-template-columns:52px 1fr}.drive-face{padding:23px 20px}.drive-face::after{animation:none}.drive-face b{font-size:27px}.capability-row{margin-top:30px}.proof-note{max-width:78%;text-align:right}.project-row{padding:30px 0}.project-row:hover{padding-left:0}.project-meta{gap:12px}.live-signal{min-height:44px}.data-note a{min-height:44px;display:inline-flex;align-items:center}.project-arrow-label{display:none}.signal-header small{display:none}.signal-panel>a{grid-template-columns:10px 1fr 18px;padding-block:12px}.signal-panel>a span{grid-column:2;padding-bottom:15px}.signal-panel>a em{grid-column:3;grid-row:1/span 2}.log-grid{grid-template-columns:1fr}.log-entry{min-height:245px}.closing{min-height:520px;padding-inline:0}.closing h2{font-size:clamp(28px,9.2vw,40px)}.closing>p:not(.eyebrow){max-width:30ch;line-height:1.7}footer{min-height:190px;padding:30px 0;grid-template-columns:1fr;gap:12px;text-align:center;font-size:11px}footer div{align-items:center}footer p{margin:0}footer>span{justify-self:center}}
 @media(prefers-reduced-motion:reduce){html{scroll-behavior:auto}*,*::before,*::after{animation-duration:.001ms!important;animation-iteration-count:1!important;transition-duration:.001ms!important}.reveal{opacity:1;transform:none}}

diff --git a/src/data/projects.ts b/src/data/projects.ts
@@ -17,21 +17,21 @@ export const projects: Project[] = [
     slug: "yipan",
     index: "01",
     name: "Yi盘",
-    eyebrow: "NOW BUILDING · PORTABLE AI AGENT WORKSPACE",
-    summary: "把长期资料、任务和主要产出放在盘内，让多个受管 AI Agent 围绕同一份长期知识继续工作。",
-    status: "受控内测 · 发布门禁收口",
+    eyebrow: "NOW BUILDING · 装在 U 盘里的随身 AI 工作台",
+    summary: "长期资料、任务记录和主要产出保存在盘内；需要智能处理时主要调用云端模型。",
+    status: "受控内测 · 正在完成上市前验证",
     statusTone: "active",
     tags: ["AI Agents", "Local-first", "Knowledge Governance", "Portable"],
     href: "https://github.com/rongyishuaige7/yipan-showcase",
     featured: true,
-    caveat: "Linux 证据最完整；Windows 与 macOS 仍在继续真机验证。"
+    caveat: "Linux 测试最完整；Windows 与 macOS 仍在真机测试。"
   },
   {
     slug: "problem-solution-recorder-oss",
     index: "02",
     name: "Problem Solution Recorder",
     eyebrow: "AGENT SKILL · MARKDOWN MEMORY",
-    summary: "面向 AI 工具的 Markdown 问题解决记忆：保留排障证据、维护人类与 AI 双索引，并沉淀可复用模式。",
+    summary: "把排障过程保存成可检索的 Markdown：记录症状、命令、原因和修复方法，同时生成人读索引和 AI 索引。",
     status: "MIT · 可查看 Release 与 CI",
     statusTone: "released",
     tags: ["Agent Skill", "Markdown", "Shell", "Knowledge Base"],
@@ -42,7 +42,7 @@ export const projects: Project[] = [
     index: "03",
     name: "DevFlow Recorder",
     eyebrow: "LOCAL ACTIVITY · LINUX DESKTOP",
-    summary: "面向 Linux 开发者的本地优先活动记录器，把 Wayland 窗口焦点变化整理成可回顾时间线并保存在本地。",
+    summary: "在 Linux/Wayland 上记录窗口焦点变化，并整理成便于回看的工作时间线；数据保存在本机。",
     status: "MVP · GNOME Wayland",
     statusTone: "verified",
     tags: ["Rust", "Tauri", "React", "SQLite", "Wayland"],
@@ -66,7 +66,7 @@ export const projects: Project[] = [
     index: "05",
     name: "Desktop Pet",
     eyebrow: "PLAYFUL EXPERIMENT · NATIVE WINDOW",
-    summary: "Linux 桌面宠物原型：React 管理界面配合 Rust + GTK 原生透明置顶窗口，播放本地六组动作帧。",
+    summary: "一个 Linux 桌面宠物原型。React 负责设置界面，Rust + GTK 负责透明置顶窗口和本地动画。",
     status: "Linux prototype",
     statusTone: "verified",
     tags: ["Tauri", "React", "Rust", "GTK", "Local-first"],

diff --git a/src/data/build-log.ts b/src/data/build-log.ts
@@ -10,28 +10,28 @@ export const buildLog = [
     date: "2026.07.14",
     type: "BUILD",
     title: "ESP32 firmware artifact",
-    text: "固定 PlatformIO 与 U8g2 版本，并让 CI 上传可追溯固件产物。",
+    text: "固定 PlatformIO 与 U8g2 版本，并在 CI 中上传固件。",
     href: "https://github.com/rongyishuaige7/ESP32_RPS_Game/actions/runs/29339478819"
   },
   {
     date: "2026.07.14",
     type: "TEST",
     title: "DevFlow unit tests",
-    text: "为 DevFlow 的真实业务纯函数补充最小单元测试，并接入持续集成。",
+    text: "DevFlow 新增 Web 单元测试，并在 CI 中检查前端构建。",
     href: "https://github.com/rongyishuaige7/devflow-recorder/actions/runs/29339471902"
   },
   {
     date: "2026.07.14",
     type: "TEST",
     title: "Desktop Pet unit tests",
-    text: "为桌面宠物的真实业务纯函数补充最小单元测试，并接入持续集成。",
+    text: "桌面宠物新增 Web 单元测试，并在 CI 中检查前端构建。",
     href: "https://github.com/rongyishuaige7/pet-desktop-tauri/actions/runs/29339475309"
   },
   {
     date: "2026.07.14",
     type: "RETRO",
     title: "从功能集合到可交付产品",
-    text: "Yi盘公开开发复盘：把验证门禁、真实状态和失败路径放在功能数量之前。",
+    text: "Yi盘开发复盘：如何从功能集合走到可测试、可发布的产品。",
     href: "https://github.com/rongyishuaige7/yipan-showcase/blob/main/docs/%E5%BC%80%E5%8F%91%E5%A4%8D%E7%9B%98-%E4%BB%8E%E5%8A%9F%E8%83%BD%E9%9B%86%E5%90%88%E5%88%B0%E5%8F%AF%E4%BA%A4%E4%BB%98%E4%BA%A7%E5%93%81.md"
   }
 ];

diff --git a/src/scripts/status-freshness.ts b/src/scripts/status-freshness.ts
@@ -4,13 +4,13 @@ export function refreshTimeSensitiveSignals(root: ParentNode = document, now = D
   root.querySelectorAll<HTMLElement>("[data-ci-status='completed'][data-ci-run-at]").forEach((signal) => {
     const runAt = Date.parse(signal.dataset.ciRunAt ?? "");
     if (Number.isFinite(runAt) && now - runAt <= staleAfterHours * 3_600_000) return;
-    markStale(signal, "CI evidence is stale");
+    markStale(signal, "CI 记录已超过 48 小时");
   });
 
   root.querySelectorAll<HTMLElement>("[data-artifact-status='available']").forEach((signal) => {
     const expiresAt = Date.parse(signal.dataset.artifactExpiresAt ?? "");
     if (Number.isFinite(expiresAt) && expiresAt > now) return;
-    markStale(signal, "Firmware Artifact expired");
+    markStale(signal, "固件构建产物已过期");
   });
 }
 

diff --git a/README.md b/README.md
@@ -1,6 +1,6 @@
-# Rongyi / Founder Lab
+# Rongyi / Yi盘
 
-Rongyi 的个人主页，展示 Yi盘与经过公开验证的产品、开发工具和工程记录。
+Rongyi 的个人主页，展示 Yi盘、开发工具、硬件项目和对应的 GitHub 记录。
 
 - 线上地址：<https://rongyishuaige7.github.io>
 - 技术栈：Astro 静态站、原生 CSS、构建时 GitHub API
@@ -18,10 +18,10 @@ npm run build:refresh
 npm run dev
 ```
 
-## 内容边界
+## 内容范围
 
-- Yi盘当前是受控内测、发布门禁收口阶段，不能把 CI 或抽象视觉当作三平台真机证明。
-- Yi盘真实截图将在获得真实产品素材后补充；当前页面只使用明确标注的抽象能力图。
+- Yi盘当前处于受控内测，正在完成上市前验证；CI 不代表三个系统都已完成真机测试。
+- Yi盘真实截图将在获得真实产品素材后补充；当前页面使用明确标注的功能示意图。
 - GitHub 状态带构建时间。API 失败、当前 HEAD 未验证或证据过期时发布明确的非绿色状态；只有状态结构本身不可信时才阻断部署，不静默回退到静态 `CI passing`。
 - 定时部署会在构建产物中刷新状态，但不会回写 `main`；因此仓库中跟踪的 JSON 可能旧于线上页面显示的构建时间。
 